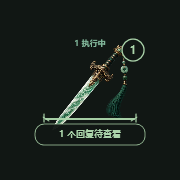
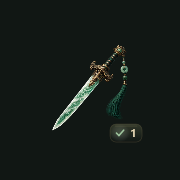
Quiet wheel status feedback with compact themed glyphs

diff --git a/src/CodeManager/WheelTaskStatus.cs b/src/CodeManager/WheelTaskStatus.cs
@@ -10,7 +10,7 @@ namespace CodeManager;
 internal readonly record struct WheelStatusSummary(int Running, int Waiting, int Ready, int Errors, int Unlinked)
 {
     internal int Attention => Waiting+Ready+Errors;
-    internal string Label => Errors>0 ? Errors+" 处异常 · 待处理" : Waiting>0 ? Waiting+" 项需要处理" : Ready>0 ? Ready+" 个回复待查看" : Running>0 ? Running+" 个任务执行中" : Unlinked>0 ? "未接入自动状态" : "已查看 · 等待任务";
+    internal string Label => Attention>0 ? Attention+" 项待处理" : Running>0 ? Running+" 个任务执行中" : Unlinked>0 ? "未接入自动状态" : "已查看 · 等待任务";
     internal string Color(SkinDefinition skin) => Errors>0 ? skin.Error : Waiting>0 ? skin.Waiting : Ready>0 ? skin.Ready : Running>0 ? skin.Running : skin.Muted;
     internal static WheelStatusSummary From(IEnumerable<Slot> slots)
     {
@@ -26,13 +26,16 @@ internal readonly record struct WheelStatusSummary(int Running, int Waiting, int
     }
 }
 
-/// <summary>State feedback independent of weapon art: theme-colored rune rails,
-/// live motion and a persistent aggregate notification inside the 116px idle host.</summary>
+/// <summary>Quiet equipment HUD: one glyph per socket, one aggregate seal on the
+/// core. State names belong in the immediate hover hint, never around the artwork.</summary>
 internal static class WheelTaskStatus
 {
     private static readonly Dictionary<string,Brush> Brushes=new();
     private static readonly Dictionary<(string,double),Pen> Pens=new();
     private static readonly Dictionary<(string,string,double,double),DrawingGroup> Labels=new();
+    private static readonly Dictionary<(string,string),Brush> Glass=new();
+    private static readonly Dictionary<string,Brush> Glows=new();
+    private static readonly Dictionary<(double,bool),Geometry> Seals=new();
     private static readonly Typeface Typeface=new(new FontFamily("Microsoft YaHei UI"),FontStyles.Normal,FontWeights.SemiBold,FontStretches.Normal);
     private static Brush B(string color) { if(Brushes.TryGetValue(color,out var b))return b;var brush=new SolidColorBrush((Color)ColorConverter.ConvertFromString(color));brush.Freeze();Brushes[color]=brush;return brush; }
     private static Pen P(string color,double width) { if(Pens.TryGetValue((color,width),out var p))return p; p=new Pen(B(color),width){StartLineCap=PenLineCap.Round,EndLineCap=PenLineCap.Round};p.Freeze();Pens[(color,width)]=p;return p; }
@@ -50,53 +53,96 @@ internal static class WheelTaskStatus
     internal static string LabelFor(Slot slot) => !slot.Connected ? "已断开" : Stale(slot) ? "状态待确认" : slot.State switch {
         AgentState.Running=>"执行中",AgentState.Waiting=>slot.StateSource=="终端状态信号"?"通知待查看":"等待确认",AgentState.Ready=>slot.Unread?"回复待查看":"已查看回复",AgentState.Error=>"发生错误",_=>slot.IntegrationConnected?"等待任务":"未接入状态"
     };
-    private static void Rail(DrawingContext dc,SkinDefinition skin,string color,double half,double y,double flow,bool active,bool attention)
+    internal static bool CoreVisible(WheelStatusSummary summary) => summary.Attention>0 || summary.Running>0 || summary.Unlinked>0;
+    internal static int CoreCount(WheelStatusSummary summary) => summary.Attention>0 ? summary.Attention : summary.Running;
+    internal static AgentState CoreState(WheelStatusSummary summary) => summary.Errors>0 ? AgentState.Error : summary.Waiting>0 ? AgentState.Waiting : summary.Ready>0 ? AgentState.Ready : summary.Running>0 ? AgentState.Running : AgentState.Unknown;
+    private static Brush Glow(string color)
     {
-        dc.PushOpacity(.38);dc.DrawLine(P(color,1),new Point(-half,y),new Point(half,y));dc.Pop();
-        // Material-specific finials: instrument diamonds, mechanical notches,
-        // tactical ticks and star points. These do not surround the weapon art.
-        bool angular=skin.Family is "mechanical" or "tactical" or "protocol" or "formation";
-        foreach(double x in new[]{-half,half}) {
-            double lean=x<0?-3:3;
-            dc.DrawLine(P(color,1),new Point(x,y),new Point(x+lean,y-(angular?4:2)));
-            if(!angular)dc.DrawLine(P(color,1),new Point(x,y),new Point(x-lean,y+2));
-        }
-        if(active) {
-            double t=(flow*3)%1, x=-half+half*2*t;
-            dc.PushOpacity(attention?.55+.4*Math.Pow(Math.Sin(flow*Math.PI*6),2):.9);
-            if(attention) {
-                dc.DrawLine(P(color,2),new Point(-half,y),new Point(half,y));
-                dc.DrawLine(P(color,1.2),new Point(-half-2,y-5),new Point(-half-2,y+3));
-                dc.DrawLine(P(color,1.2),new Point(half+2,y-5),new Point(half+2,y+3));
-            } else {
-                dc.DrawLine(P(color,2),new Point(Math.Max(-half,x-12),y),new Point(x,y));
-                dc.DrawEllipse(B(color),null,new Point(x,y),1.7,1.7);
+        if(Glows.TryGetValue(color,out var cached))return cached;
+        var c=(Color)ColorConverter.ConvertFromString(color);c.A=65;
+        var brush=new RadialGradientBrush(c,Colors.Transparent);brush.Freeze();Glows[color]=brush;return brush;
+    }
+    private static Brush SealGlass(SkinDefinition skin)
+    {
+        var key=(skin.Background,skin.Elevated);if(Glass.TryGetValue(key,out var cached))return cached;
+        Color top=(Color)ColorConverter.ConvertFromString(skin.Elevated),bottom=(Color)ColorConverter.ConvertFromString(skin.Background);top.A=244;bottom.A=230;
+        var brush=new LinearGradientBrush(top,bottom,90);brush.Freeze();Glass[key]=brush;return brush;
+    }
+    private static Geometry Seal(double width,bool angular)
+    {
+        if(Seals.TryGetValue((width,angular),out var cached))return cached;
+        Geometry result;
+        if(angular) {
+            var g=new StreamGeometry();using(var c=g.Open()) {
+                c.BeginFigure(new Point(-width/2+4,-9),true,true);
+                c.PolyLineTo(new[]{new Point(width/2-3,-9),new Point(width/2,-6),new Point(width/2,5),new Point(width/2-4,9),new Point(-width/2+3,9),new Point(-width/2,6),new Point(-width/2,-5)},true,false);
             }
-            dc.Pop();
+            result=g;
+        } else result=new RectangleGeometry(new Rect(-width/2,-9,width,18),6,6);
+        result.Freeze();Seals[(width,angular)]=result;return result;
+    }
+    private static void Glyph(DrawingContext dc,SkinDefinition skin,AgentState state,string color,double flow,bool motion,bool unread)
+    {
+        double breath=motion && unread ? .82+.16*Math.Pow(Math.Sin(flow*Math.PI*3),2) : 1;
+        if(unread) {
+            dc.PushOpacity(breath);dc.DrawEllipse(Glow(color),null,new Point(0,0),10,9);dc.Pop();
         }
+        dc.PushOpacity(breath);
+        switch(state) {
+            case AgentState.Running:
+                for(int i=0;i<3;i++) {
+                    double opacity=motion ? .28+.70*Math.Pow(Math.Cos(flow*Math.PI*6-i*.75),2) : .5+i*.2;
+                    dc.PushOpacity(opacity);double x=(i-1)*3.5;
+                    if(skin.Family is "tactical" or "mechanical" or "protocol") dc.DrawRectangle(B(color),null,new Rect(x-.8,-2,1.6,4));
+                    else dc.DrawEllipse(B(color),null,new Point(x,0),1.05,1.05);
+                    dc.Pop();
+                }
+                break;
+            case AgentState.Ready:
+                dc.DrawLine(P(color,1.55),new Point(-3.6,0),new Point(-1.1,2.5));
+                dc.DrawLine(P(color,1.55),new Point(-1.1,2.5),new Point(3.7,-3));break;
+            case AgentState.Waiting:
+                dc.DrawLine(P(color,1.55),new Point(-2,-3.3),new Point(-2,3.3));
+                dc.DrawLine(P(color,1.55),new Point(2,-3.3),new Point(2,3.3));break;
+            case AgentState.Error:
+                dc.DrawLine(P(color,1.6),new Point(0,-3.7),new Point(0,.6));
+                dc.DrawEllipse(B(color),null,new Point(0,3.3),.9,.9);break;
+            default:
+                dc.PushOpacity(.65);dc.DrawLine(P(color,1),new Point(-3,0),new Point(0,-3));dc.DrawLine(P(color,1),new Point(0,-3),new Point(3,0));dc.DrawLine(P(color,1),new Point(3,0),new Point(0,3));dc.DrawLine(P(color,1),new Point(0,3),new Point(-3,0));dc.Pop();break;
+        }
+        dc.Pop();
     }
     internal static void DrawSlot(DrawingContext dc,SkinDefinition skin,Slot slot,double w,double h,double flow,bool motion)
     {
         if(!slot.Occupied)return;
-        string color=Stale(slot)?skin.Unknown:slot.StateColor; bool attention=slot.Unread && slot.Connected && slot.State is AgentState.Ready or AgentState.Waiting or AgentState.Error;
-        Rail(dc,skin,color,w*.36,h/2+4,flow+slot.Number*.13,motion && slot.Connected && !Stale(slot) && (attention || slot.State==AgentState.Running),attention);
-        dc.PushOpacity(.94);dc.DrawRoundedRectangle(B(skin.Background),null,new Rect(-w*.54,h/2+8,w*1.08,16),5,5);dc.Pop();
-        Label(dc,LabelFor(slot),color,9,w*1.02,0,h/2+16);
+        bool stale=Stale(slot),attention=slot.Unread && slot.Connected && slot.State is AgentState.Ready or AgentState.Waiting or AgentState.Error;
+        string color=stale?skin.Unknown:slot.StateColor;
+        var state=slot.Connected && !stale?slot.State:AgentState.Unknown;
+        dc.PushTransform(new TranslateTransform(-w/2+22,h/2-3));
+        Glyph(dc,skin,state,color,flow+slot.Number*.13,motion && !stale,attention);dc.Pop();
     }
-    internal static void DrawCore(DrawingContext dc,SkinDefinition skin,IReadOnlyList<Slot> slots,Slot? current,double flow,bool motion)
+    internal static void DrawCore(DrawingContext dc,SkinDefinition skin,IReadOnlyList<Slot> slots,Slot? current,double flow,bool motion,double reveal=1)
     {
-        if(!slots.Any(s=>s.Occupied))return;
-        var summary=WheelStatusSummary.From(slots);string color=summary.Color(skin);
-        bool animated=motion && (summary.Attention>0 || summary.Running>0);
-        // Gentle breathing and moving accents fit entirely inside the compact host.
-        Rail(dc,skin,color,44,29,flow,animated,summary.Attention>0);
-        dc.PushOpacity(.96);dc.DrawRoundedRectangle(B(skin.Background),P(color,.75),new Rect(-55,34,110,21),9,9);dc.Pop();
-        Label(dc,summary.Label,color,9,105,0,44);
-        if(summary.Attention>0) {
-            dc.PushOpacity(animated?.6+.4*Math.Pow(Math.Sin(flow*Math.PI*6),2):1);
-            dc.DrawEllipse(B(skin.Background),P(color,1.3),new Point(43,-40),11,11);
-            Label(dc,summary.Attention.ToString(),color,11,19,43,-40);dc.Pop();
+        var summary=WheelStatusSummary.From(slots);if(!CoreVisible(summary))return;
+        int count=CoreCount(summary);string color=summary.Color(skin);var state=CoreState(summary);
+        double width=count>0?32:19;
+        // One small equipment seal, tucked into the lower-right corner. The only
+        // persistent text is a meaningful aggregate count; artwork remains open.
+        dc.PushTransform(new TranslateTransform(36,43));
+        var plate=Seal(width,skin.Family is "mechanical" or "tactical" or "protocol" or "formation");
+        dc.DrawGeometry(SealGlass(skin),null,plate);
+        dc.PushOpacity(.32);dc.DrawGeometry(null,P(skin.Border,.6),plate);dc.Pop();
+        dc.PushOpacity(.22);dc.DrawLine(P(skin.Accent,.6),new Point(-width/2+5,-7),new Point(width/2-5,-7));dc.Pop();
+        double glyphX=count>0?-6:0;
+        dc.PushTransform(new TranslateTransform(glyphX,0));Glyph(dc,skin,state,color,flow,motion,summary.Attention>0);dc.Pop();
+        if(count>0)Label(dc,count.ToString(CultureInfo.InvariantCulture),skin.Text,10,14,7.5,0);
+        if(motion && summary.Attention>0 && reveal<1) {
+            dc.PushOpacity((1-reveal)*.65);
+            double spread=9+reveal*10;
+            dc.DrawEllipse(B(color),null,new Point(-spread,-7-reveal*5),1.1,1.1);
+            dc.DrawEllipse(B(color),null,new Point(6+reveal*9,-11-reveal*7),.8,.8);
+            dc.Pop();
         }
-        if(summary.Running>0 && summary.Attention>0) Label(dc,summary.Running+" 执行中",skin.Running,8,84,0,-47);
+        dc.Pop();
     }
 }

diff --git a/src/CodeManager/DockWeaponWheel.cs b/src/CodeManager/DockWeaponWheel.cs
@@ -298,12 +298,6 @@ public sealed class DockWeaponWheel : FrameworkElement
                     EquipmentPedestal.Draw(dc, skin, new Rect(-w*.4, h/2-3, w*.8, 8));
                     dc.Pop();
                 }
-                if (SkinCatalog.DecorationsEnabled && slot.Connected && slot.State is AgentState.Running or AgentState.Waiting) {
-                    double gleam = .35 + Math.Sin(Flow * Math.PI * 2 + slot.Number) * .18;
-                    dc.PushOpacity(gleam);
-                    dc.DrawLine(new Pen(B(slot.StateColor), 1), new Point(-w*.16, h/2+2), new Point(w*.16, h/2+2));
-                    dc.Pop();
-                }
                 if (selected || active) {
                     dc.PushOpacity(selected ? .8 : .45);
                     dc.DrawLine(new Pen(B(skin.Accent), 1.2), new Point(-w*.24, h/2+3), new Point(w*.24, h/2+3));
@@ -311,8 +305,6 @@ public sealed class DockWeaponWheel : FrameworkElement
                 }
                 EquipmentCatalog.Draw(dc, slot, new Rect(-w*zoom/2, -h*zoom/2, w*zoom, h*zoom), slot.Connected ? selected || active ? 1 : .94 : .55);
                 Text(dc, slot.Number.ToString(), -w/2 + 5, h/2 - 3, 11, selected || active ? skin.Accent : skin.Text, 18, true);
-                if (slot.Connected && slot.State is AgentState.Waiting or AgentState.Error or AgentState.Ready)
-                    Text(dc, slot.State == AgentState.Ready ? "✓" : "!", w/2 - 5, h/2 - 3, 11, slot.StateColor, 16, true);
                 WheelTaskStatus.DrawSlot(dc,skin,slot,w,h,Flow,_motionEnabled && SkinCatalog.DecorationsEnabled);
                 dc.Pop();
             }
@@ -327,13 +319,9 @@ public sealed class DockWeaponWheel : FrameworkElement
                 dc.Pop();
             }
             EquipmentCatalog.Draw(dc, current, new Rect(-55, -55, 110, 110));
-            if (current.Connected && current.State is AgentState.Waiting or AgentState.Error or AgentState.Ready) {
-                dc.DrawEllipse(B(skin.Background), null, new Point(40, 43), 8, 8);
-                Text(dc, current.State == AgentState.Ready ? "✓" : "!", 40, 43, 11, current.StateColor, 14, true);
-            }
         }
         else DrawEmptyCore(dc, d);
-        WheelTaskStatus.DrawCore(dc,skin,_slots,current,Flow,_motionEnabled && SkinCatalog.DecorationsEnabled);
+        WheelTaskStatus.DrawCore(dc,skin,_slots,current,Flow,_motionEnabled && SkinCatalog.DecorationsEnabled,Phase);
         dc.Pop();
     }
     private void DrawEmptyCore(DrawingContext dc, double deployment)

diff --git a/src/CodeManager/TaskStatusTests.cs b/src/CodeManager/TaskStatusTests.cs
@@ -85,6 +85,21 @@ public static class TaskStatusTests
             var summary=WheelStatusSummary.From(slots);Check(summary.Running==1 && summary.Ready==1 && summary.Errors==0 && summary.Attention==1,"Aggregate wrong");
             slots[1].Unread=false;Check(WheelStatusSummary.From(slots).Attention==0 && slots[1].State==AgentState.Ready,"Viewing erased result");
         });
+        Test("Quiet status HUD: mixed outcomes share one accurate count; acknowledged idle tasks leave artwork unobstructed",()=>{
+            var mixed=new WheelStatusSummary(2,1,2,1,0);
+            Check(WheelTaskStatus.CoreCount(mixed)==4,"Badge counted only the highest-priority state");
+            Check(WheelTaskStatus.CoreState(mixed)==AgentState.Error,"Error priority lost");
+            var quiet=new WheelStatusSummary(0,0,0,0,0);
+            Check(!WheelTaskStatus.CoreVisible(quiet),"Acknowledged idle artwork still has a status plate");
+            var missing=new WheelStatusSummary(0,0,0,0,2);
+            Check(WheelTaskStatus.CoreVisible(missing) && WheelTaskStatus.CoreCount(missing)==0,"Unknown state should not masquerade as a notification count");
+        });
+        Test("Dock teardown: a late MouseLeave without a presentation source closes hints safely",()=>{
+            var dock=new DockWindow(interactionTest:true);
+            try {
+                typeof(DockWindow).GetMethod("SlotLeave",BindingFlags.Instance|BindingFlags.NonPublic)!.Invoke(dock,new object[]{dock,new System.Windows.Input.MouseEventArgs(System.Windows.Input.Mouse.PrimaryDevice,0)});
+            }finally{dock.Close();}
+        });
         Test("Observed completion reaches the real manager and saved state; acknowledgement and the next turn remain distinct",()=>{
             File.WriteAllText(path,Header(id,"fixture-login")+"\n"+Record("event_msg","{\"type\":\"task_complete\"}",2)+"\n",new UTF8Encoding(false));
             var store=new StateStore(Path.Combine(fixture,"manager-state"));var state=new AppState();var slot=state.Slots[0];

diff --git a/src/CodeManager/DockWindow.xaml.cs b/src/CodeManager/DockWindow.xaml.cs
@@ -483,6 +483,9 @@ public partial class DockWindow : Window
     }
     private void SlotLeave(object sender, MouseEventArgs e)
     {
+        // Native teardown can send MouseLeave after the visual loses its HWND.
+        // PointFromScreen requires a live presentation source even during exit.
+        if (PresentationSource.FromVisual(WeaponWheel) == null) { ClosePreview(); return; }
         Native.GetCursorPos(out var cursor);
         var point = WeaponWheel.PointFromScreen(new Point(cursor.X,cursor.Y));
         if (WeaponWheel.IsDeployed && WeaponWheel.HitSlot(point) != null) return;

diff --git a/docs/task-status/README.md b/docs/task-status/README.md
@@ -1,6 +1,6 @@
 # 轮盘任务状态
 
-收起时显示所有已收纳任务的汇总，执行中有主题色流动标记，回复、确认或异常有持续的待处理数量；展开后，每个槽位直接显示状态文字与光轨。待处理标记保留到进入对应任务、手动标记已查看，或该会话开始下一轮。窗口处在前台本身不再吞掉完成提醒。
+收起时，角色／武器右下角仅保留一个小型状态印记和必要的数字，表示全部任务的待处理总数或运行数量；没有待处理或运行任务时，已查看的状态自然退场。展开后，状态符号与原有槽位编号排列在一起，不再常驻状态文字、粗光轨和多重计数。悬停立即显示完整含义，任务总览保留详细状态。待处理标记保留到进入对应任务、手动标记已查看，或该会话开始下一轮。窗口处在前台本身不再吞掉完成提醒。
 
 状态来源按能够确认的信息接入：
 
@@ -10,7 +10,7 @@
 
 当前终端标题与本地会话标题唯一、完整对应时会自动连接；已保存的会话 ID 和路径会继续使用。名称重复、改名或自定义宿主无法唯一对应时，在任务菜单选择「连接当前 CLI 会话状态…」，选一次现有会话即可，不需要关闭或重启 CLI。精确权限事件可从同一菜单的 hooks 接入进入。
 
-十三套皮肤均使用自己的运行、等待、完成和错误配色，机械、战术、星轨和水墨材质使用对应的线饰。运行有流动光轨，待处理有呼吸式标记和数量徽记；关闭界面动效仍保留静态文字、颜色和数量。武器与角色立绘不增加包围圆环。
+十三套皮肤均使用自己的运行、等待、完成和错误配色：运行是轻微流动的三点／能量条，已回复是勾记，等待是暂停印记，异常是叹号。小型印记以各主题的玻璃、玉石或切角金属形式呈现；待处理有低幅呼吸，新通知短暂亮起后回归平静。关闭界面动效仍保留符号、颜色与数字。武器与角色立绘不增加包围圆环。
 
 轮询和文件解析在后台执行，状态更新约 1 秒；会话发现每 8 秒缓存一次；单次每文件最多读取 128 KiB，保留未完成的 UTF-8 行。辅助功能探测独立执行，不阻塞会话读取，隐藏轮盘会停止状态动效；没有已连接窗口时不扫描会话。
 
